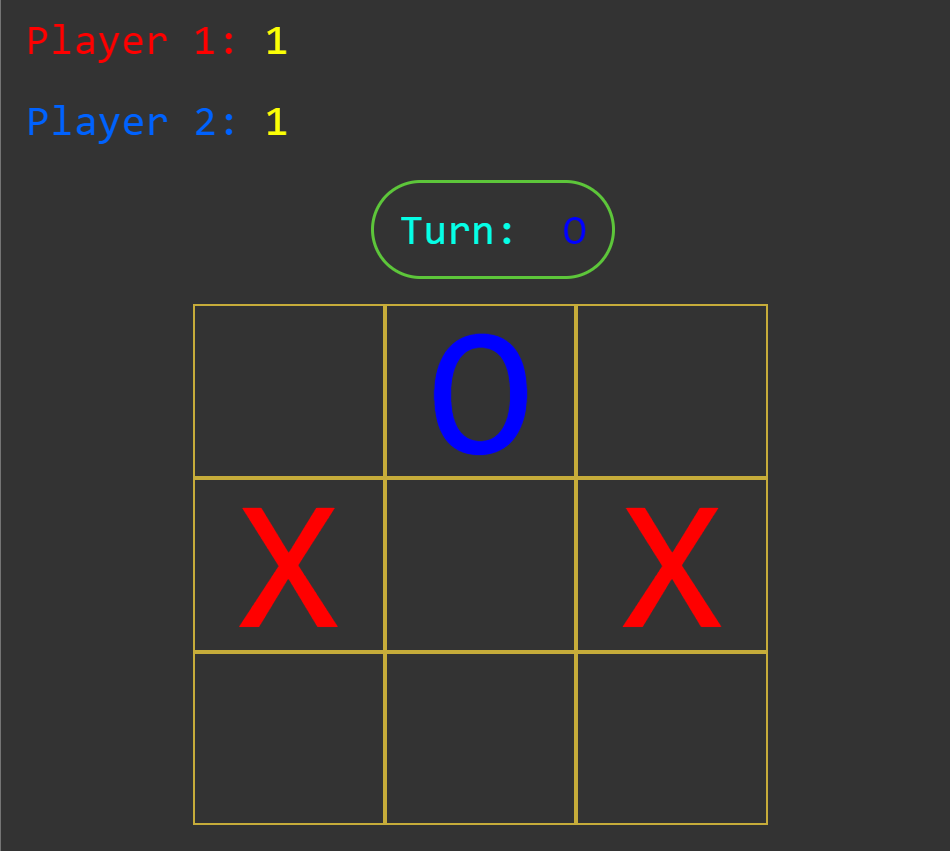
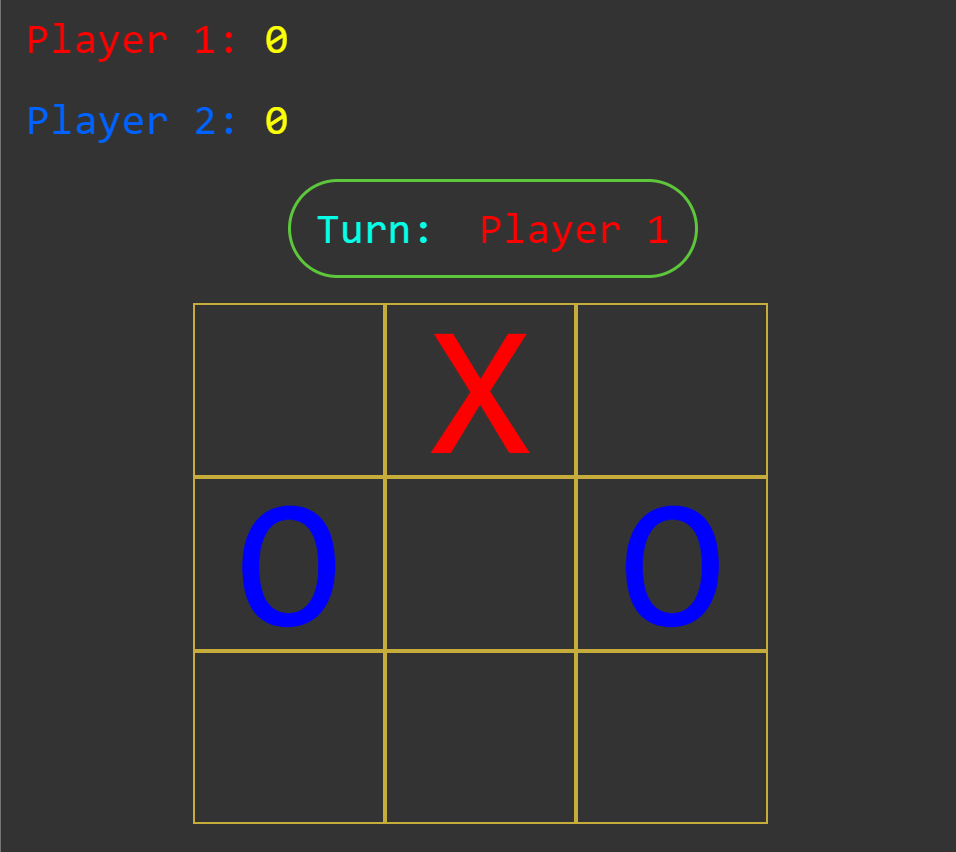
minor changes

diff --git a/js/main.js b/js/main.js
@@ -31,11 +31,11 @@ function cellClicked(cell) {
 		cell.innerHTML = `${currentPlayer}`;
 		if (currentPlayer === player1) {
 			cell.style.color = player1Color;
-			viewTurnValue.innerHTML = player2;
+			viewTurnValue.innerHTML = player2Name;
 			viewTurnValue.style.color = player2Color;
 		} else {
 			cell.style.color = player2Color;
-			viewTurnValue.innerHTML = player1;
+			viewTurnValue.innerHTML = player1Name;
 			viewTurnValue.style.color = player1Color;
 		}
 	} else return;

diff --git a/index.html b/index.html
@@ -19,7 +19,7 @@
 			<div class="game__counter">
 				<p class="game__players" id="player_1">Player 1: <span id="player_1_value">0</span></p>
 				<p class="game__players" id="player_2">Player 2: <span id="player_2_value">0</span></p>
-				<p id="game__turn">Turn: <span id="turn_value">X</span></p>
+				<p id="game__turn">Turn: <span id="turn_value">Player 1</span></p>
 			</div>
 			<div class="game__board">
 				<div class="game__toprow">
